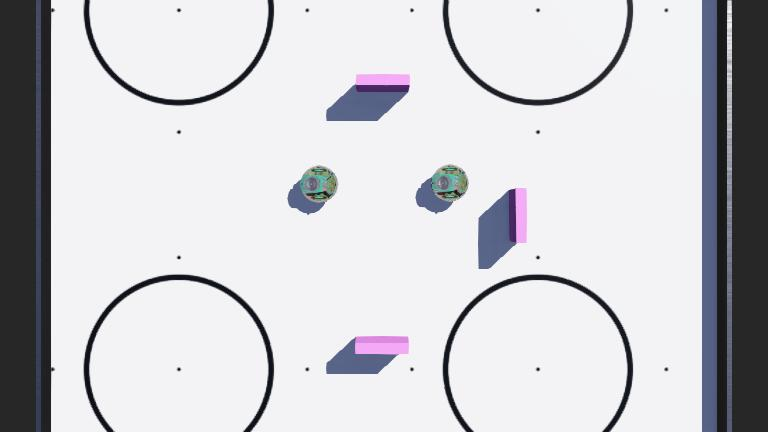
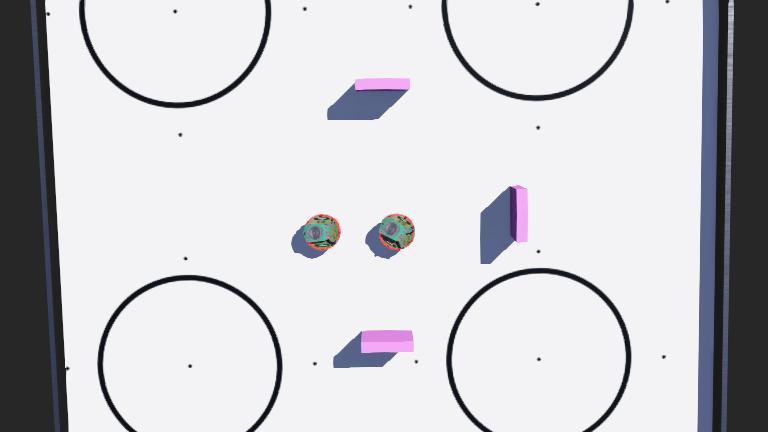
added red recognition but unexpected patterns

diff --git a/controllers/my_controller/my_controller.py b/controllers/my_controller/my_controller.py
@@ -2,6 +2,7 @@
 
 from controller import Robot, Motor, Camera, CameraRecognitionObject
 
+
 # create the Robot instance.
 robot = Robot()
 
@@ -45,39 +46,58 @@ camera = Camera('camera')
 camera.enable(100)
 
 x = 0
+freq = 0
+f = open("pixels.txt", "w")
+num = 0
+
 while robot.step(timestep) != -1:
     image = camera.getImageArray()
-    
-    if x == 10:
-        #print(image)
-        camera.saveImage('testImage.png', 100)
-        x = 0
 
-        green_total = 0
-        red_total = 0
-        blue_total = 0
-        if image:
-            # display the components of each pixel
-            for x in range(0,camera.getWidth()):
-                for y in range(0,camera.getHeight()):
-                    #print(image)
-                    #print(x, " ", y)
-                    red   = image[x][y][0]
-                    green = image[x][y][1]
-                    blue  = image[x][y][2]
-                    gray  = (red + green + blue) / 3
-                    
-                    red_total += red
-                    green_total += green
-                    blue_total += blue
-    
-                    #print('r='+str(red)+' g='+str(green)+' b='+str(blue))
-            print('-------------------------')
-            print("greenTotal: ", green_total)
-            print("blueTotal: ", blue_total)
-            print("redTotal: ", red_total)
-            print('-------------------------')
-    x += 1
+    camera.saveImage('testImage.png', 100)
+    print(f"width: {camera.getWidth()}")
+    print(f"height: {camera.getHeight()}")
+
+    if image:
+        red_matrix = []
+        # check each pixel for largest red component
+        for x in range(0, camera.getWidth()):
+            red_row = []  # each row
+            for y in range(0, camera.getHeight()):
+                # get components
+                red_component = int(image[x][y][0])
+                green_component = int(image[x][y][1])
+                blue_component = int(image[x][y][2])
+
+                # red_row.append(f"rgb({red_component},{green_component},{blue_component})")
+
+                # if red is largest then leader prev if red > green and red > blue
+                # (red_component + 10) > (green_component + blue_component) and red_component > (60)
+                if red_component > 50 and green_component < 40 and blue_component < 35:
+                    red_row.append(f"o")
+                else:
+                    red_row.append(f"-")  # background
+
+            red_matrix.append(red_row)  # Add the row to the matrix
+
+        # Determine the maximum width of the numbers in the matrix for formatting
+        max_width = max(len(str(item)) for row in red_matrix for item in row)
+        num += 1
+        # if num == 10:
+        for row in red_matrix:
+            print(' '.join(f"{item:>{max_width}}" for item in row))
+            # print("\n")
+        # example of pixel out
+        # if num == 15:
+        #     f.write ("==========")
+        #     for row in red_matrix:
+        #         f.write(' '.join(f"{item:>{max_width}}" for item in row))
+    else:
+        print("NO IMAGE")
+
+
+
+
+
     # this doesnt work with E-Puck robot type 
     # objects = camera.getRecognitionObjects()
     
@@ -88,8 +108,8 @@ while robot.step(timestep) != -1:
     #     print("Size:", obj.get_size())
     #     print("Orientation:", obj.get_orientation())
 
-    left_motor.setVelocity(1.0) # set the left motor (radians/second)
-    right_motor.setVelocity(1.0) # set the right motor (radians/second) 
+    left_motor.setVelocity(0.0) # set the left motor (radians/second)
+    right_motor.setVelocity(0.0) # set the right motor (radians/second) 
 
     # print(left_ground_sensor.getValue())
     # print(middle_ground_sensor.getValue())

diff --git a/controllers/different_controller/different_controller.py b/controllers/different_controller/different_controller.py
@@ -225,40 +225,40 @@ right_motor.setPosition(float('inf'))
 left_motor.setVelocity(0.0)
 right_motor.setVelocity(0.0)
 
-while robot.step(time_step) != -1:
-    # Reset logic and sensor reading can go here
-    for i in range(NUM_SENSORS):
-        DS_value[i] = ds[i].getValue()
+# while robot.step(time_step) != -1:
+#     # Reset logic and sensor reading can go here
+#     for i in range(NUM_SENSORS):
+#         DS_value[i] = ds[i].getValue()
         
-    if min_act_flag == 0:
-        min_act_left = DS_value[6] + DS_value[7]
-        min_act_right = DS_value[0] + DS_value[1]
-        min_act_flag = 1
+#     if min_act_flag == 0:
+#         min_act_left = DS_value[6] + DS_value[7]
+#         min_act_right = DS_value[0] + DS_value[1]
+#         min_act_flag = 1
         
-    # Avoid Objects Module
-    AvoidObjects()
+#     # Avoid Objects Module
+#     AvoidObjects()
 
-    # Set wheel speeds based on OAM decisions
-    if 0.00628 * ao_speed[LEFT] > 6.28:
-        ao_speed[LEFT] = 6.28
-    if 0.00628 * ao_speed[LEFT] < -6.28:
-        ao_speed[LEFT] = -6.28
+#     # Set wheel speeds based on OAM decisions
+#     if 0.00628 * ao_speed[LEFT] > 6.28:
+#         ao_speed[LEFT] = 6.28
+#     if 0.00628 * ao_speed[LEFT] < -6.28:
+#         ao_speed[LEFT] = -6.28
         
-    if 0.00628 * ao_speed[RIGHT] > 6.28:
-        ao_speed[RIGHT] = 6.28
-    if 0.00628 * ao_speed[RIGHT] < -6.28:
-        ao_speed[RIGHT] = -6.28
-    left_motor.setVelocity(0.00628 * ao_speed[LEFT])
-    right_motor.setVelocity(0.00628 * ao_speed[RIGHT])
-    print("side", ao_side)
+#     if 0.00628 * ao_speed[RIGHT] > 6.28:
+#         ao_speed[RIGHT] = 6.28
+#     if 0.00628 * ao_speed[RIGHT] < -6.28:
+#         ao_speed[RIGHT] = -6.28
+#     left_motor.setVelocity(0.00628 * ao_speed[LEFT])
+#     right_motor.setVelocity(0.00628 * ao_speed[RIGHT])
+#     print("side", ao_side)
     
-    #!!! For debugging!!!
-    print(DS_value[DS_LEFT_00]) 
-    print(DS_value[DS_LEFT_45])
-    print(DS_value[DS_LEFT_90])
+#     #!!! For debugging!!!
+#     print(DS_value[DS_LEFT_00]) 
+#     print(DS_value[DS_LEFT_45])
+#     print(DS_value[DS_LEFT_90])
     
-    print(DS_value[DS_RIGHT_00])
-    print(DS_value[DS_RIGHT_45])
-    print(DS_value[DS_RIGHT_90])
-    print("reset", ao_reset)
+#     print(DS_value[DS_RIGHT_00])
+#     print(DS_value[DS_RIGHT_45])
+#     print(DS_value[DS_RIGHT_90])
+#     print("reset", ao_reset)
 
